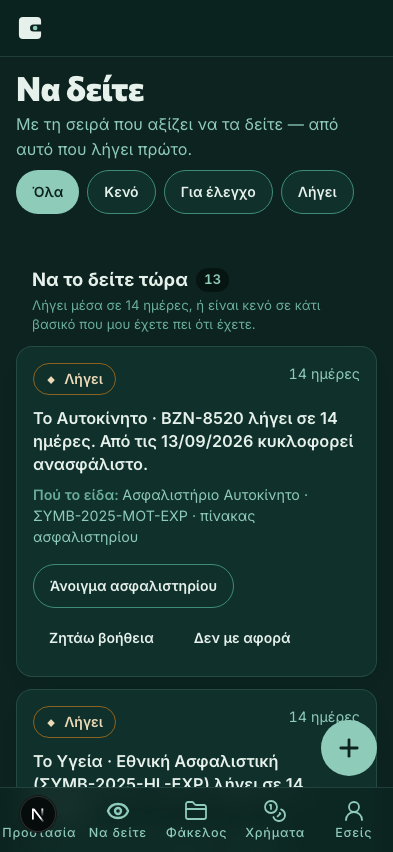
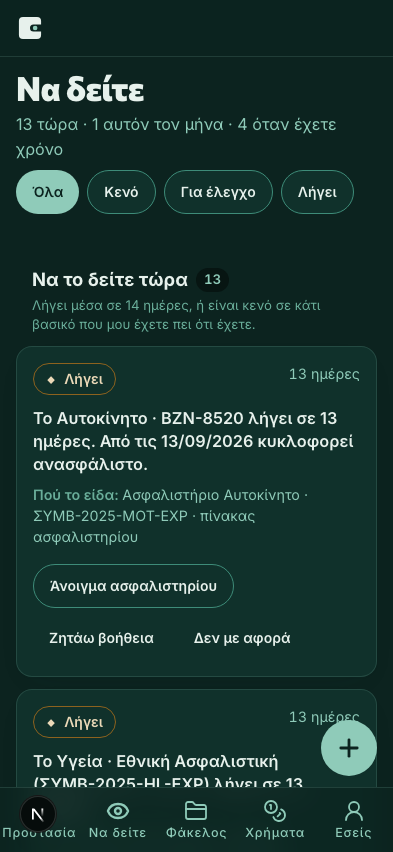
[grafi-app][P1] reference-prototype reconciliation — the texture the build lacked
The owner supplied the reference prototype (v2) and its UX assessment after
the ladder closed. The assessment is the document the brief was distilled
from; its three open items were already closed by G1/G7. The prototype's
remaining delta was texture — adopted only where real data supports it:

- «έλεγξα ξανά πριν από N ώρες» in the home header (newest lastAnalyzedAt —
  never a claimed check that didn't happen, A-31);
- «Τα υπόλοιπα N τα παρακολουθώ. Αν αλλάξει κάτι, θα σας το πω πρώτος.» on
  the verdict;
- the home money think line names the first possibly-paid-twice asset when
  one exists, instead of restating the «έως» definition;
- covered map cells carry counts («✓ 2 ενεργά»);
- checklist lines carry the document's own explanation of each cover — the
  words that actually answer «καλύπτομαι για πλημμύρα;»;
- /see's subtitle became the tier counts;
- the help sheet leads with «όχι όλο τον φάκελό σας», the adviser shares
  hint states revocation is immediate and who informs whom;
- the /me ledger's plan line now states the PRICE (subscriptionCopy.tiers)
  — §8.8 asked for the price and the build showed only the name.

Rejected as fabrication or demo affordance (ledger P1 section): payment-
detection texture, the quiet-preview ring toggle, cost-of-adding questions,
≈ amounts without tariff data, geographic why-you.

Also repairs a latent time bomb this pass tripped on the calendar, not the
code: the §2.8 count-agreement fixture pinned NOW to 2026-08-25 while a
[…]

diff --git a/lib/i18n/translations/app/el.ts b/lib/i18n/translations/app/el.ts
@@ -60,6 +60,10 @@ export const appEl = {
         householdAdd: 'Προσθήκη ατόμου',
         lastDid: 'Το τελευταίο που έκανα',
         nextExpiry: 'Η επόμενη λήξη',
+        checkedJustNow: 'έλεγξα ξανά μόλις τώρα',
+        checkedHoursAgo: 'έλεγξα ξανά πριν από {count, plural, one {# ώρα} other {# ώρες}}',
+        checkedDaysAgo: 'έλεγξα ξανά πριν από {count, plural, one {# ημέρα} other {# ημέρες}}',
+        moneyThinkPair: 'Βρήκα διπλή κάλυψη για το {asset} σε δύο ασφαλιστήρια — δεν ξέρω αν η μία αφαιρείται. Μπορείτε να ρωτήσετε.',
         checklist: '{count, plural, one {Έχετε # ασφαλιστήριο. Ανεβάστε άλλα δύο και σας δείχνω ολόκληρη την εικόνα.} other {Έχετε # ασφαλιστήρια. Ανεβάστε ένα ακόμη και σας δείχνω ολόκληρη την εικόνα.}}',
         emptyTitle: 'Ανεβάστε το πρώτο και σας λέω τι είδα.',
         emptyBody: 'Διαβάζω κάθε ασφαλιστήριο — οποιασδήποτε εταιρείας, οποιουδήποτε κλάδου — και σας λέω τι καλύπτει, τι όχι, και πότε λήγει.',
@@ -107,6 +111,7 @@ export const appEl = {
         nextExpiry: '{count, plural, =0 {Η επόμενη λήξη είναι σήμερα.} one {Η επόμενη λήξη είναι σε # ημέρα.} other {Η επόμενη λήξη είναι σε # ημέρες.}}',
         noExpiry: 'Καμία λήξη στον ορίζοντα.',
         sentence: '{covered, plural, one {Σας καλύπτει # από τα {active}.} other {Σας καλύπτουν # από τα {active}.}}',
+        watching: 'Τα υπόλοιπα {count, plural, one {# το παρακολουθώ} other {# τα παρακολουθώ}}. Αν αλλάξει κάτι, θα σας το πω πρώτος.',
         thingsToSee: '{count, plural, =0 {Δεν βρήκα κάτι που να αξίζει να δείτε αυτή την εβδομάδα.} one {Ένα πράγμα αξίζει να δείτε αυτή την εβδομάδα.} other {# πράγματα αξίζει να δείτε αυτή την εβδομάδα.}}',
         notChecked: {
             gap_detection_not_in_plan: 'Κενά κάλυψης δεν τα έλεγξα — περιλαμβάνεται στο {plan}.',
@@ -125,7 +130,8 @@ export const appEl = {
         twiceNote: '{count, plural, =0 {Δεν βρήκα ίδια κάλυψη δύο φορές για το ίδιο πράγμα.} one {# ζεύγος με ίδια κάλυψη για το ίδιο πράγμα.} other {# ζεύγη με ίδια κάλυψη για το ίδιο πράγμα.}}',
         twiceAmountNote: 'Ποσό από τιμολόγιο ασφαλιστή· χωρίς τιμολόγιο δεν το εκτιμώ.',
     },
-    coverageMap: { title: 'Οι 16 κλάδοι', none: 'δεν έχετε' },
+    coverageMap: {
+        activeCount: '{count, plural, one {# ενεργό} other {# ενεργά}}', title: 'Οι 16 κλάδοι', none: 'δεν έχετε' },
     household: { title: 'Το νοικοκυριό σας', add: 'Προσθήκη ατόμου', policies: '{count, plural, =0 {χωρίς ασφαλιστήριο} one {# ασφαλιστήριο} other {# ασφαλιστήρια}}' },
     checklist: { ok: 'Καλύπτεται', not: 'Δεν καλύπτεται', review: 'Δεν είμαι σίγουρος', notStated: 'δεν αναφέρεται', notFound: 'δεν εντοπίστηκε' },
     questions: { title: 'Έτοιμες ερωτήσεις', ask: 'Ρωτήστε τον σύμβουλό σας με ένα πάτημα' },
@@ -141,6 +147,7 @@ export const appEl = {
     },
     life: { marriage: 'Γάμος', child: 'Παιδί', newHome: 'Νέο σπίτι', newCar: 'Νέο αυτοκίνητο', newJob: 'Νέα δουλειά', loan: 'Δάνειο', divorce: 'Διαζύγιο', move: 'Μετακόμιση', retirement: 'Συνταξιοδότηση', other: 'Κάτι άλλο' },
     see: {
+        tierCounts: '{now} τώρα · {month} αυτόν τον μήνα · {later} όταν έχετε χρόνο',
         filterAll: 'Όλα',
         filterLabel: 'Φίλτρο ευρημάτων',
         title: 'Να δείτε',
@@ -268,6 +275,7 @@ export const appEl = {
     me: {
         theme: 'Θέμα',
         language: 'Γλώσσα',
+        planLine: '{plan} · {price}{period}',
         ledgerTitle: 'Τι έκανα για εσάς το {year}',
         ledgerEmpty: 'Δεν έχω κάνει ακόμη κάτι που να αξίζει να μετρήσω. Μόλις διαβάσω το πρώτο σας ασφαλιστήριο, θα το δείτε εδώ.',
         ledger: {
@@ -306,7 +314,7 @@ export const appEl = {
         card: { call: 'Κλήση', email: 'Email' },
         since: 'Συνεργάζεστε από {date}',
         shares: 'Τι βλέπει',
-        sharesHint: 'Εσείς αποφασίζετε ανά ασφαλιστήριο. Ό,τι ανάψετε, το βλέπει· ό,τι σβήσετε, όχι.',
+        sharesHint: 'Εσείς αποφασίζετε ανά ασφαλιστήριο. Ό,τι σβήσετε παύει να το βλέπει αμέσως — δεν χρειάζεται να του το πείτε, του το λέω εγώ.',
         addedByAdviser: 'από τον σύμβουλό σας',
         sharedSince: 'το βλέπει από {date}',
         notShared: 'δεν το βλέπει',
@@ -327,7 +335,7 @@ export const appEl = {
         help: {
             title: 'Ζητάω βοήθεια',
             what: 'Τι θα σταλεί',
-            sentence: 'Θα στείλω στον {name} αυτό το εύρημα, με την πηγή του.',
+            sentence: 'Στέλνω στον {name} αυτό που βρήκα — όχι όλο τον φάκελό σας.',
             plainWords: 'Δηλαδή: τη μία πρόταση που είδατε, από ποιο έγγραφο βγήκε, και —αν το ενεργοποιήσετε— ποιο στοιχείο του προφίλ σας το κάνει δικό σας. Τίποτα άλλο.',
             includeOthers: 'Να δει και τα άλλα {count, plural, one {# ασφαλιστήριο} other {# ασφαλιστήρια}}',
             confirm: 'Στείλτε το',

diff --git a/app/(protected)/home/HomeScreen.tsx b/app/(protected)/home/HomeScreen.tsx
@@ -40,8 +40,17 @@ export function HomeScreen({ model }: { model: HomeModel }) {
     }
 
     const nextLine = model.nextExpiry ? formatPlural(t.app.verdict.nextExpiry, { count: model.nextExpiry.days }, lang) : t.app.verdict.noExpiry
+    const checkedLine = (() => {
+        if (!model.lastCheckedAt) return null
+        const hours = Math.floor((Date.now() - new Date(model.lastCheckedAt).getTime()) / 3_600_000)
+        if (hours < 1) return t.app.home.checkedJustNow
+        if (hours < 48) return formatPlural(t.app.home.checkedHoursAgo, { count: hours }, lang)
+        return formatPlural(t.app.home.checkedDaysAgo, { count: Math.floor(hours / 24) }, lang)
+    })()
+    const subtitle = [formatDate(new Date(), lang), checkedLine].filter(Boolean).join(" · ")
     const sentence = verdict.quiet ? t.app.verdict.quietSentence : formatPlural(t.app.verdict.sentence, { covered: verdict.counts.covered, active: verdict.active }, lang)
     const reassurance = verdict.quiet ? formatPlural(t.app.verdict.quietReassurance, { next: nextLine }, lang) : formatPlural(t.app.verdict.thingsToSee, { count: model.findings.filter((f) => f.tier !== "later").length }, lang)
+    const watchingLine = !verdict.quiet && model.watchedCount > 0 ? ` ${formatPlural(t.app.verdict.watching, { count: model.watchedCount }, lang)}` : ""
     const mood = verdict.quiet ? t.app.verdict.moodQuiet : verdict.counts.gap > 0 ? t.app.verdict.moodGap : verdict.counts.review > 0 ? t.app.verdict.moodReview : t.app.verdict.moodQuiet
     const seeHref = PRIMARY_NAV[1].href
     const householdHref = `${PRIMARY_NAV[4].href}/household`
@@ -56,7 +65,7 @@ export function HomeScreen({ model }: { model: HomeModel }) {
 
     return (
         <>
-            <LargeTitleNav title={t.app.home.title} brand={brand} />
+            <LargeTitleNav title={t.app.home.title} brand={brand} subtitle={subtitle} />
             <MomentOfTruthBeacon findings={model.now.shown.map((f) => ({ id: f.id, tier: f.tier, kind: f.kind }))} />
             <AppSection id="verdict" className="[padding-block-start:var(--spacing-g-4)]">
                 <VerdictCard
@@ -65,7 +74,7 @@ export function HomeScreen({ model }: { model: HomeModel }) {
                     quiet={verdict.quiet}
                     mood={mood}
                     sentence={sentence}
-                    reassurance={reassurance}
+                    reassurance={reassurance + watchingLine}
                     ringLabel={formatPlural(t.app.verdict.ringLabel, { covered: verdict.counts.covered, active: verdict.active, gap: verdict.counts.gap, review: verdict.counts.review }, lang)}
                     tiles={(["covered", "gap", "review"] as const).map((state) => ({ state, label: t.app.verdict.tiles[state], count: verdict.counts[state], href: `${seeHref}?state=${state}` }))}
                 />
@@ -110,7 +119,7 @@ export function HomeScreen({ model }: { model: HomeModel }) {
                             protects={{ label: t.app.moneyLine.protects, value: money.protectsUpTo ? formatCurrency(money.protectsUpTo.amount, lang) : null, note: money.protectsUpTo ? t.app.moneyLine.protectsNote : t.app.moneyLine.protectsNone, factKey: "money.protectsUpTo" }}
                             twice={{ label: t.app.moneyLine.twice, value: twiceAmount > 0 ? formatCurrency(twiceAmount, lang) : null, note: formatPlural(t.app.moneyLine.twiceNote, { count: twiceCount }, lang), factKey: "money.paidTwice" }}
                         />
-                        <p className="mt-g-2 text-g-app-caption text-fg-faint">{t.app.home.moneyThink}</p>
+                        <p className="mt-g-2 text-g-app-body-sm text-fg-secondary">{model.paidTwiceFirstAsset ? formatPlural(t.app.home.moneyThinkPair, { asset: model.paidTwiceFirstAsset }, lang) : t.app.home.moneyThink}</p>
                     </AppSection>
 
                     <AppSection id="life" title={t.app.home.life}>
@@ -121,7 +130,7 @@ export function HomeScreen({ model }: { model: HomeModel }) {
 
                 <div>
                     <AppSection id="map" title={t.app.home.map}>
-                        <CoverageMap legend={{ ...stateLabels, none: t.app.coverageMap.none }} cells={model.map.map((c) => ({ id: c.id, label: c.label, state: c.state, href: c.state ? PRIMARY_NAV[2].href : ADD_POLICY.href }))} />
+                        <CoverageMap legend={{ ...stateLabels, none: t.app.coverageMap.none }} cells={model.map.map((c) => ({ id: c.id, label: c.label, state: c.state, detail: c.state === "covered" ? formatPlural(t.app.coverageMap.activeCount, { count: c.count }, lang) : undefined, href: c.state ? PRIMARY_NAV[2].href : ADD_POLICY.href }))} />
                     </AppSection>
 
                     <AppSection id="household" title={t.app.home.household}>

diff --git a/lib/i18n/translations/app/en.ts b/lib/i18n/translations/app/en.ts
@@ -54,6 +54,10 @@ export const appEn: typeof appEl = {
         householdAdd: 'Add a person',
         lastDid: 'The last thing I did',
         nextExpiry: 'The next expiry',
+        checkedJustNow: 'checked again just now',
+        checkedHoursAgo: 'checked again {count, plural, one {# hour} other {# hours}} ago',
+        checkedDaysAgo: 'checked again {count, plural, one {# day} other {# days}} ago',
+        moneyThinkPair: "I found the same cover for {asset} on two policies — I don't know if one can come off. You can ask.",
         checklist: '{count, plural, one {You have # policy. Upload two more and I show you the whole picture.} other {You have # policies. Upload one more and I show you the whole picture.}}',
         emptyTitle: 'Upload the first one and I will tell you what I saw.',
         emptyBody: 'I read every policy — any insurer, any line — and tell you what it covers, what it does not, and when it expires.',
@@ -101,6 +105,7 @@ export const appEn: typeof appEl = {
         nextExpiry: '{count, plural, =0 {The next expiry is today.} one {The next expiry is in # day.} other {The next expiry is in # days.}}',
         noExpiry: 'No expiry on the horizon.',
         sentence: '{covered, plural, one {# of your {active} covers you.} other {# of your {active} cover you.}}',
+        watching: "The other {count, plural, one {# I watch} other {# I watch}}. If anything changes, you'll hear it from me first.",
         thingsToSee: '{count, plural, =0 {I found nothing worth a look this week.} one {One thing is worth a look this week.} other {# things are worth a look this week.}}',
         notChecked: {
             gap_detection_not_in_plan: 'I did not check for cover gaps — that is part of {plan}.',
@@ -119,7 +124,8 @@ export const appEn: typeof appEl = {
         twiceNote: '{count, plural, =0 {I found no cover paid twice for the same thing.} one {# pair with the same cover for the same thing.} other {# pairs with the same cover for the same thing.}}',
         twiceAmountNote: 'Amount from the insurer tariff; without a tariff I do not estimate it.',
     },
-    coverageMap: { title: 'The 16 lines', none: 'you do not have' },
+    coverageMap: {
+        activeCount: '{count, plural, one {# active} other {# active}}', title: 'The 16 lines', none: 'you do not have' },
     household: { title: 'Your household', add: 'Add a person', policies: '{count, plural, =0 {no policy} one {# policy} other {# policies}}' },
     checklist: { ok: 'Covered', not: 'Not covered', review: 'I am not sure', notStated: 'not stated', notFound: 'not found' },
     questions: { title: 'Ready-to-ask questions', ask: 'Ask your adviser in one tap' },
@@ -135,6 +141,7 @@ export const appEn: typeof appEl = {
     },
     life: { marriage: 'Marriage', child: 'A child', newHome: 'New home', newCar: 'New car', newJob: 'New job', loan: 'A loan', divorce: 'Divorce', move: 'Moved house', retirement: 'Retirement', other: 'Something else' },
     see: {
+        tierCounts: '{now} now · {month} this month · {later} when you have time',
         filterAll: 'All',
         filterLabel: 'Finding filter',
         title: 'Worth seeing',
@@ -262,6 +269,7 @@ export const appEn: typeof appEl = {
     me: {
         theme: 'Theme',
         language: 'Language',
+        planLine: '{plan} · {price}{period}',
         ledgerTitle: 'What I did for you in {year}',
         ledgerEmpty: "I haven't done anything worth counting yet. As soon as I read your first policy, you'll see it here.",
         ledger: {
@@ -300,7 +308,7 @@ export const appEn: typeof appEl = {
         card: { call: 'Call', email: 'Email' },
         since: 'Working together since {date}',
         shares: 'What they can see',
-        sharesHint: 'You decide per policy. What you switch on, they see; what you switch off, they do not.',
+        sharesHint: "You decide per policy. Whatever you switch off they stop seeing immediately — no need to tell them, I do.",
         addedByAdviser: 'added by your adviser',
         sharedSince: 'sees it since {date}',
         notShared: 'cannot see it',
@@ -321,7 +329,7 @@ export const appEn: typeof appEl = {
         help: {
             title: 'I want help',
             what: 'What will be sent',
-            sentence: "I'll send {name} this finding, with its source.",
+            sentence: "I'm sending {name} what I found — not your whole folder.",
             plainWords: "Meaning: the one sentence you saw, which document it came from, and — if you switch it on — which profile fact makes it yours. Nothing else.",
             includeOthers: 'Let them see the other {count, plural, one {# policy} other {# policies}}',
             confirm: 'Send it',

diff --git a/lib/app/home-model.ts b/lib/app/home-model.ts
@@ -8,7 +8,7 @@ import { resolveUserEntitlements } from "@/lib/subscription-entitlements"
 import { LINES, lineOf } from "./lines"
 import { deriveInsuredNames } from "@/lib/wallet/insured-people"
 import { getTimeline } from "@/lib/services/timeline/service"
-import { composePolicies, composeFindings, composeRenderable, type ComposePolicy, type ComposeGap, type ComposeProfile, type ComposedPolicy } from "./compose"
+import { composePolicies, composeFindings, composeRenderable, type ComposePolicy, type ComposeGap, type ComposeProfile, type ComposedPolicy, assetLabelFor } from "./compose"
 import { computeVerdict, type Verdict } from "./verdict"
 import { capNow, sortByTier } from "./tier"
 import { computeMoneyLine, type MoneyLine, type MoneyPolicy } from "./money"
@@ -28,9 +28,15 @@ export interface HomeModel {
     findings: RenderableFinding[]
     now: { shown: RenderableFinding[]; overflow: number }
     money: MoneyLine
-    map: Array<{ id: string; label: string; state: ProtectionState | null }>
+    map: Array<{ id: string; label: string; state: ProtectionState | null; count: number }>
     household: Array<{ id: string; name: string; state: ProtectionState; policyCount: number }>
     lifeChips: Array<{ id: string; href: string }>
+    /** The engine's most recent read across live policies — the header's «έλεγξα ξανά …» line. */
+    lastCheckedAt: string | null
+    /** active − the now-tier count: what the analyst is watching rather than raising. */
+    watchedCount: number
+    /** The first possibly-paid-twice pair's asset — the home think line names it (prototype texture). */
+    paidTwiceFirstAsset: string | null
     nextExpiry: { policyId: string; assetLabel: string; days: number } | null
     lastDid: { text: string; at: Date } | null
     notChecked: { gapDetection: boolean; notAnalysed: number; failed: number }
@@ -155,7 +161,7 @@ export async function loadHomeModel(userId: string, lang: "el" | "en", now: Date
     const map = LINES.map((line) => {
         const states = live.filter((p) => lineOf(p.lineOfBusiness) === line.id).map((p) => verdict.perPolicy[p.id])
         const state: ProtectionState | null = states.length === 0 ? null : states.includes("gap") ? "gap" : states.includes("review") ? "review" : "covered"
-        return { id: line.id, label: line.label[lang], state }
+        return { id: line.id, label: line.label[lang], state, count: states.length }
     })
 
     const namesByPolicy = new Map(raw.map((p) => [p.id, deriveInsuredNames(p.acordData).map(fold)]))
@@ -171,6 +177,9 @@ export async function loadHomeModel(userId: string, lang: "el" | "en", now: Date
     const lastText = last?.title?.[lang] ?? last?.summary?.[lang] ?? null
     const lastAt = last?.at ?? last?.occurredAt ?? null
 
+    const lastChecked = raw.reduce<Date | null>((acc, p) => (p.lastAnalyzedAt && (!acc || p.lastAnalyzedAt > acc) ? p.lastAnalyzedAt : acc), null)
+    const money = computeMoneyLine(moneyPolicies, new Map(), now)
+    const firstPair = money.paidTwice[0] ? ctx.rawById.get(money.paidTwice[0].policyId) : undefined
     return {
         lang,
         tier: entitlements.tier as PlanTier,
@@ -178,10 +187,13 @@ export async function loadHomeModel(userId: string, lang: "el" | "en", now: Date
         verdict,
         findings,
         now: foldIdenticalRows(findings),
-        money: computeMoneyLine(moneyPolicies, new Map(), now),
+        money,
         map,
         household,
         lifeChips: LIFE_EVENT_CHIPS.map((c) => ({ id: c.id, href: `/life-event/${c.id}` })),
+        lastCheckedAt: lastChecked ? lastChecked.toISOString() : null,
+        watchedCount: Math.max(verdict.active - verdict.nowCount, 0),
+        paidTwiceFirstAsset: firstPair ? assetLabelFor(firstPair, lang) : null,
         nextExpiry: next ? { policyId: next.id, assetLabel: next.assetLabel, days: next.daysUntilExpiry! } : null,
         lastDid: lastText && lastAt ? { text: lastText, at: lastAt } : null,
         notChecked: {

diff --git a/tests/unit/home-section-budget.test.tsx b/tests/unit/home-section-budget.test.tsx
@@ -28,11 +28,12 @@ function model(over: Partial<HomeModel> = {}): HomeModel {
         verdict: { counts: { covered: 2, gap: 1, review: 0 }, active: 3, expired: 0, quiet: false, nextExpiryDays: 40, nextExpiryPolicyId: "p2", nowCount: 1, notChecked: [], perPolicy: { p1: "gap", p2: "covered", p3: "covered" } },
         findings: [finding], now: { shown: [finding], overflow: 0 },
         money: { paidPerYear: 1234, protectsUpTo: { amount: 1_300_000, currency: "EUR", policyId: "p2", coverName: "Αστική ευθύνη" }, paidTwice: [] },
-        map: [{ id: "home", label: "Κατοικία", state: "gap" }, { id: "motor", label: "Αυτοκίνητο", state: "covered" }, { id: "pet", label: "Κατοικίδιο", state: null }],
+        map: [{ id: "home", label: "Κατοικία", state: "gap", count: 1 }, { id: "motor", label: "Αυτοκίνητο", state: "covered", count: 2 }, { id: "pet", label: "Κατοικίδιο", state: null, count: 0 }],
         household: [], lifeChips: [{ id: "marriage", href: "/life-event/marriage" }],
         nextExpiry: { policyId: "p2", assetLabel: "Αυτοκίνητο · ΙΚΖ-4821", days: 40 }, lastDid: null,
         notChecked: { gapDetection: false, notAnalysed: 0, failed: 0 },
         policies: [],
+        lastCheckedAt: new Date(Date.now() - 2 * 3_600_000).toISOString(), watchedCount: 24, paidTwiceFirstAsset: null,
         ...over,
     }
 }
@@ -51,6 +52,9 @@ describe("/ — the home screen", () => {
         expect(container.textContent).toContain("Ασφαλιστήριο κατοικίας · P-1 · ενότητα καλύψεων — δεν αναφέρεται Έψαξα και στα άλλα 2 — πουθενά.")
         expect(container.textContent).not.toMatch(/%/)
         expect(container.textContent).toContain("2/3")
+        // The map's covered cells carry counts (prototype texture, P1)
+        expect(container.textContent).toContain("2 ενεργά")
+        expect(container.textContent).toContain("έλεγξα ξανά")
     })
     it("the quiet variant says the §6 sentence and replaces the actions with the next expiry", () => {
         const { container } = render(<HomeScreen model={model({ findings: [], now: { shown: [], overflow: 0 }, verdict: { counts: { covered: 3, gap: 0, review: 0 }, active: 3, expired: 0, quiet: true, nextExpiryDays: 37, nextExpiryPolicyId: "p2", nowCount: 0, notChecked: [], perPolicy: { p1: "covered", p2: "covered", p3: "covered" } }, nextExpiry: { policyId: "p2", assetLabel: "Αυτοκίνητο · ΙΚΖ-4821", days: 37 } })} />)

diff --git a/lib/app/policy-detail-model.ts b/lib/app/policy-detail-model.ts
@@ -36,7 +36,7 @@ export interface PolicyDetailModel {
     insured: string | null
     /** The plain-language summary, only when it was written in the viewer's language (lib/wallet/summary-language). */
     summary: { text: string | null; state: "ok" | "absent" | "language_mismatch" }
-    checklist: Array<{ id: string; label: string; state: ChecklistState; citation: { document: string | null; page: number | null; snippet: string | null } }>
+    checklist: Array<{ id: string; label: string; state: ChecklistState; detail: string | null; citation: { document: string | null; page: number | null; snippet: string | null } }>
     findings: RenderableFinding[]
     questions: Array<{ id: string; kind: "cover" | "excluded" | "clause" | "deductible"; params: Record<string, string> }>
     documents: Array<{ id: string; fileName: string; mimeType: string | null; uploadedAt: string; documentKind: string | null }>
@@ -55,7 +55,7 @@ export interface PolicyDetailModel {
     exclusionHint: GlossaryHintData | null
 }
 
-type CoverageItem = { name?: string; type?: string; status?: string; limit?: string; deductible?: string }
+type CoverageItem = { name?: string; type?: string; status?: string; limit?: string; deductible?: string; description?: string; explanation?: { el?: string; en?: string } }
 
 function checklistState(status: string | undefined): ChecklistState {
     if (status === "included" || status === "optional_taken") return "ok"
@@ -98,9 +98,11 @@ export async function loadPolicyDetailModel(policyId: string, viewer: { id: stri
         .filter(({ name }) => name.readable && name.value)
         .map(({ c, i, name }) => {
             const src = sources[`coverages[${i}]`] ?? sources[`coverages[${i}].status`]
+            const detailField = extractedField(typeof c.explanation?.[lang] === "string" ? c.explanation[lang] : typeof c.description === "string" ? c.description : null)
             return {
                 id: `cov-${i}`,
                 label: name.value!,
+                detail: detailField.readable && detailField.value ? detailField.value.slice(0, 220) : null,
                 state: checklistState(c.status),
                 citation: { document: documentLabel, page: src?.page ?? null, snippet: src?.snippet ?? null },
             }

diff --git a/tests/unit/policy-detail-section-budget.test.tsx b/tests/unit/policy-detail-section-budget.test.tsx
@@ -41,9 +41,9 @@ function model(over: Partial<PolicyDetailModel> = {}): PolicyDetailModel {
         premium: { amount: 412, currency: "EUR" }, insured: "Γ. Παπαδόπουλος",
         summary: { text: "Καλύπτει σωματικές βλάβες τρίτων έως 1.300.000 €.", state: "ok" },
         checklist: [
-            { id: "cov-0", label: "Σωματικές βλάβες τρίτων", state: "ok", citation: { document: "Ασφαλιστήριο αυτοκινήτου · 64504715", page: 2, snippet: null } },
-            { id: "cov-1", label: "Θραύση κρυστάλλων", state: "not", citation: { document: "Ασφαλιστήριο αυτοκινήτου · 64504715", page: null, snippet: null } },
-            { id: "cov-2", label: "Οδική βοήθεια", state: "review", citation: { document: null, page: null, snippet: null } },
+            { id: "cov-0", label: "Σωματικές βλάβες τρίτων", state: "ok", detail: null, citation: { document: "Ασφαλιστήριο αυτοκινήτου · 64504715", page: 2, snippet: null } },
+            { id: "cov-1", label: "Θραύση κρυστάλλων", state: "not", detail: null, citation: { document: "Ασφαλιστήριο αυτοκινήτου · 64504715", page: null, snippet: null } },
+            { id: "cov-2", label: "Οδική βοήθεια", state: "review", detail: null, citation: { document: null, page: null, snippet: null } },
         ],
         findings: [gap],
         questions: [{ id: "q1", kind: "cover", params: { cover: "θραύση κρυστάλλων" } }, { id: "q2", kind: "deductible", params: { cover: "ίδιες ζημιές" } }],

diff --git a/app/(protected)/me/page.tsx b/app/(protected)/me/page.tsx
@@ -7,7 +7,7 @@ import { formatPlural } from "@/lib/i18n/plural"
 import { LEGACY_TAB_REDIRECTS, settingsSectionsFor } from "@/lib/settings/sections"
 import { getPublicPartnerOffers } from "@/lib/partner-offers/catalog"
 import { resolveUserEntitlements } from "@/lib/subscription-entitlements"
-import { planTierName } from "@/lib/subscription-copy"
+import { planTierName, subscriptionCopy } from "@/lib/subscription-copy"
 import { loadLedgerCounts } from "@/lib/app/ledger"
 import { loadHouseholdModel } from "@/lib/app/household-model"
 import { MeScreen } from "./MeScreen"
@@ -34,5 +34,5 @@ export default async function MePage({ searchParams }: { searchParams: Promise<{
     const sections = settingsSectionsFor(dbUser.roles ?? "", { hasLiveOffers })
         .filter((s) => s.id !== "household")
         .map((s) => ({ id: s.id, href: s.href, label: t.settings.nav[s.labelKey].label, description: t.settings.nav[s.labelKey].description }))
-    return <MeScreen ledger={ledger} household={household} sections={sections} planLine={formatPlural(t.app.shell.plan, { plan: planTierName(entitlements.tier, lang) }, lang)} />
+    return <MeScreen ledger={ledger} household={household} sections={sections} planLine={formatPlural(t.app.me.planLine, { plan: planTierName(entitlements.tier, lang), price: subscriptionCopy.tiers[entitlements.tier as "free" | "plus" | "pro"].price[lang], period: subscriptionCopy.tiers[entitlements.tier as "free" | "plus" | "pro"].period[lang] }, lang)} />
 }

diff --git a/app/(protected)/policies/[id]/PolicyDetailScreen.tsx b/app/(protected)/policies/[id]/PolicyDetailScreen.tsx
@@ -113,7 +113,7 @@ export function PolicyDetailScreen({ model, hasAiConsent = true }: { model: Poli
                     <p className="text-g-app-body text-fg-secondary">{t.app.policy.checklistEmpty}</p>
                 ) : (
                     <>
-                        <CoverageChecklist lines={model.checklist.map((c) => ({ id: c.id, label: c.label, state: c.state, citation: citation(c) }))} stateLabels={{ ok: t.app.checklist.ok, not: t.app.checklist.not, review: t.app.checklist.review }} />
+                        <CoverageChecklist lines={model.checklist.map((c) => ({ id: c.id, label: c.label, state: c.state, detail: c.detail ?? undefined, citation: citation(c) }))} stateLabels={{ ok: t.app.checklist.ok, not: t.app.checklist.not, review: t.app.checklist.review }} />
                         {model.exclusionHint && model.checklist.some((c) => c.state === "not") && (
                             <p className="mt-g-3 text-g-app-body-sm text-fg-secondary">
                                 {t.app.policy.exclusionLead} <GlossaryHint hint={model.exclusionHint} />

diff --git a/src/design-system/app/coverage-checklist.tsx b/src/design-system/app/coverage-checklist.tsx
@@ -7,6 +7,8 @@ export interface ChecklistLine {
     state: ChecklistState
     /** «άρθρο 4.2» / «σελ. 3» / «δεν αναφέρεται» / «δεν εντοπίστηκε» — never empty. */
     citation: string
+    /** The document's own explanation of the cover, when it wrote one — the line that answers «καλύπτομαι;» in words. */
+    detail?: string
     href?: string
 }
 
@@ -26,6 +28,7 @@ export function CoverageChecklist({ lines, stateLabels, className }: { lines: Ch
                             <span className="sr-only">{stateLabels[l.state]}: </span>
                             {l.label}
                         </span>
+                        {l.detail && <span className="mt-0.5 block text-g-app-body-sm text-fg-secondary">{l.detail}</span>}
                         <span className="block text-g-app-caption text-fg-faint">
                             {l.href ? <a href={l.href} className="underline underline-offset-2 hover:text-fg-secondary">{l.citation}</a> : l.citation}
                         </span>

diff --git a/src/design-system/app/coverage-map.tsx b/src/design-system/app/coverage-map.tsx
@@ -6,6 +6,8 @@ export interface CoverageCell {
     label: string
     /** null = «δεν έχετε» — no policy in this line. */
     state: ProtectionState | null
+    /** Replaces the legend word when present («3 ενεργά», prototype texture); the glyph stays. */
+    detail?: string
     href?: string
 }
 
@@ -32,7 +34,7 @@ export function CoverageMap({
                     <>
                         <span className="block min-w-0 break-words text-g-app-body-sm font-medium text-fg-primary">{c.label}</span>
                         <span className={cn("mt-g-1 block text-g-app-body-sm", c.state === "covered" && "text-state-covered", c.state === "gap" && "text-state-gap", c.state === "review" && "text-state-review", c.state === null && "text-fg-faint")}>
-                            {c.state ? `${GLYPH[c.state]} ${legend[c.state]}` : legend.none}
+                            {c.state ? `${GLYPH[c.state]} ${c.detail ?? legend[c.state]}` : legend.none}
                         </span>
                     </>
                 )

diff --git a/tests/unit/count-instrumentation-registry.test.tsx b/tests/unit/count-instrumentation-registry.test.tsx
@@ -158,7 +158,12 @@ function scanRenderedCounts(container: HTMLElement): Map<string, Set<number>> {
 // fact from a lifecycle partition; the real residual was the 1
 // unknown-duration policy, which no surface stated.
 
-const NOW = new Date("2026-08-25T10:00:00Z")
+// Anchored to the REAL clock (10:00 UTC today): the offsets below stay inside
+// their windows forever. The previous pinned date (2026-08-25) was a time
+// bomb — five days after it, the +5-day "expiring" fixture crossed into
+// "expired" against any component reading the live clock, and the agreement
+// test failed on an unchanged tree (first tripped 2026-08-31).
+const NOW = (() => { const d = new Date(); d.setUTCHours(10, 0, 0, 0); return d })()
 const iso = (daysFromNow: number) => {
     const d = new Date(NOW.getTime() + daysFromNow * 86_400_000)
     return d.toISOString().slice(0, 10)
